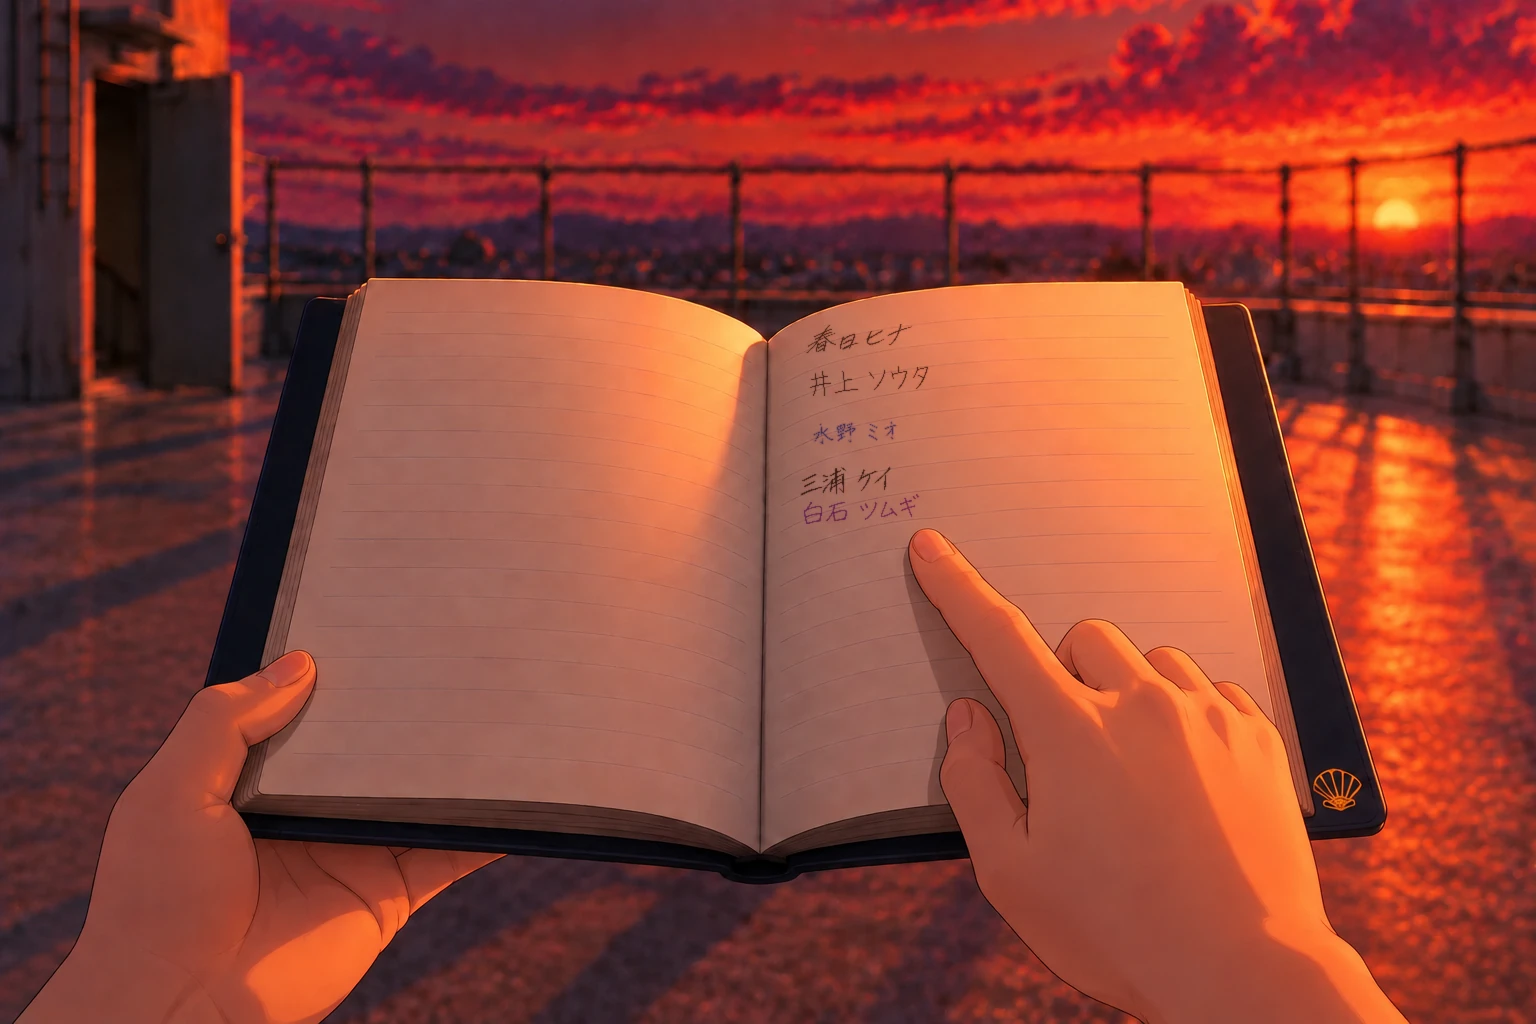
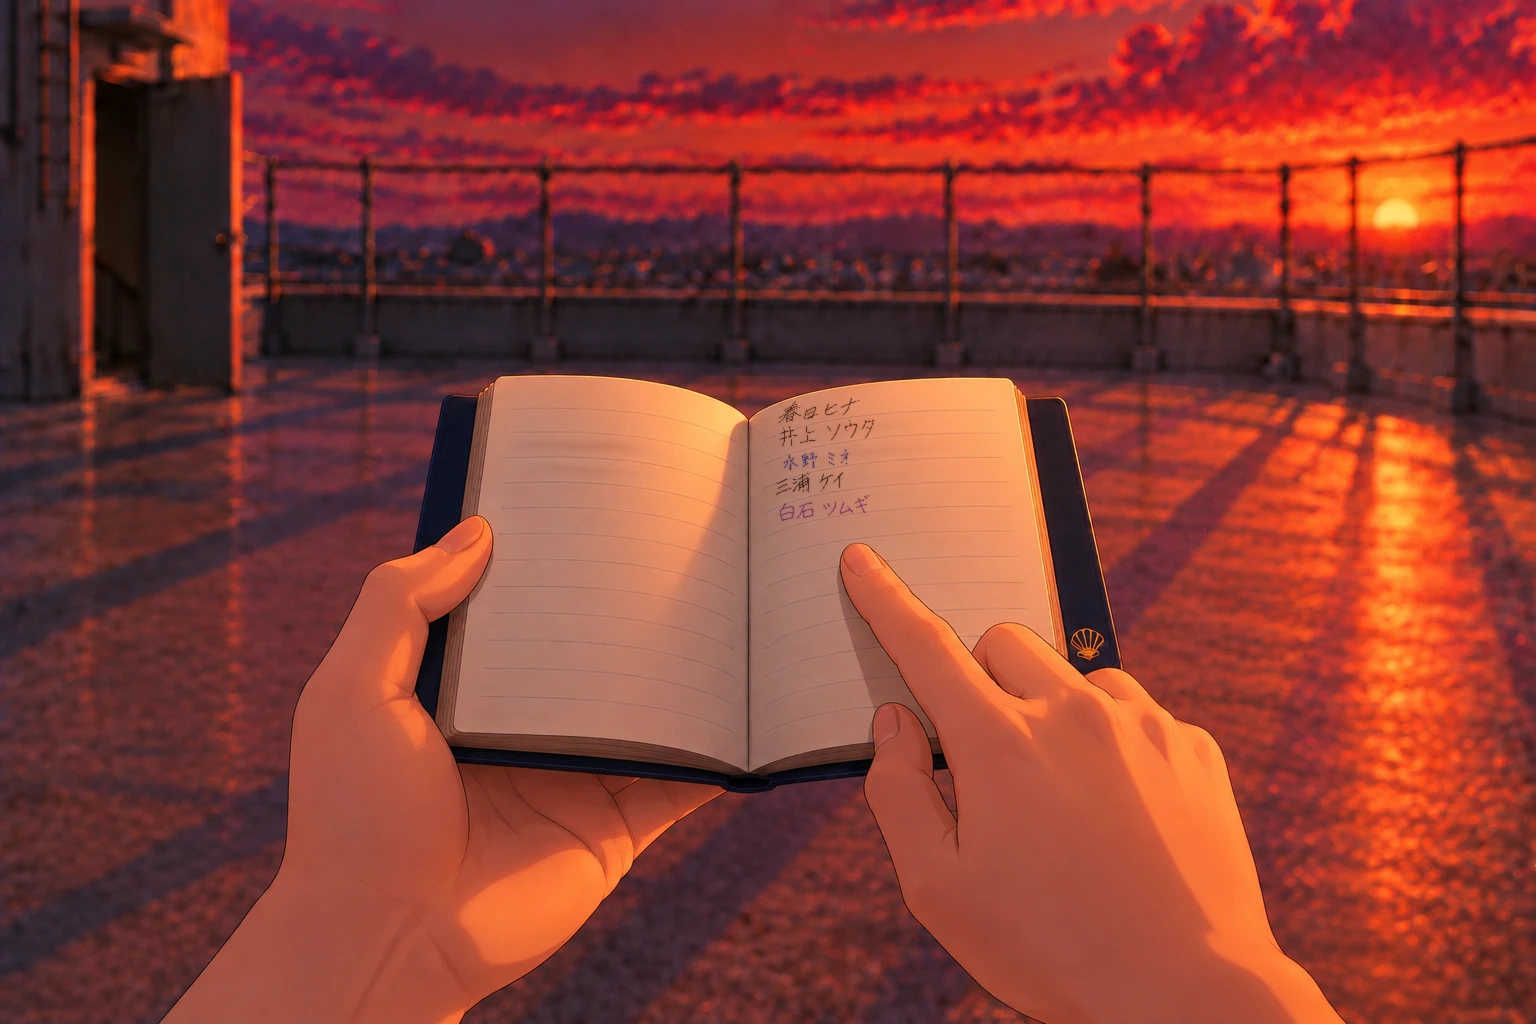
屋上：なぞる場面の手帳を生徒手帳の大きさに描き直し、名前を大きく

diff --git a/index.html b/index.html
@@ -70,9 +70,9 @@
   .cutin.show { opacity: 1; transform: none; }
   .cutin img { position: absolute; inset: 0; width: 100%; height: 100%; object-fit: cover; max-width: none; }
   .cutin .clock-hands { position: absolute; inset: 0; width: 100%; height: 100%; }
-  /* 屋上の手帳をなぞる：拾って開いた手帳の絵（protag_notebook_front）で、右ページの名前のところへ寄る（中心 930,440・2倍） */
+  /* 屋上の手帳をなぞる：拾って開いた手帳の絵（protag_notebook_front）で、右ページの名前のところへ寄る（中心 870,470・3倍。生徒手帳は手のひらにのる大きさなので、強めに寄る） */
   .cutin.nbz { pointer-events: auto; }
-  .nbz-in { position: absolute; inset: 0; transform-origin: 60.55% 42.97%; transform: translate(-10.55%, 7.03%) scale(2); transition: transform 1.4s cubic-bezier(.3, .6, .2, 1); }
+  .nbz-in { position: absolute; inset: 0; transform-origin: 56.64% 45.9%; transform: translate(-6.64%, 4.1%) scale(3); transition: transform 1.4s cubic-bezier(.3, .6, .2, 1); }
   .nbz-in.far { transform: none; transition: none; }
   .cutin .nbz-in img { position: absolute; inset: 0; width: 100%; height: 100%; object-fit: cover; }
   .nbz-row { position: absolute; padding: 0; border: 0; background: none; cursor: pointer; -webkit-tap-highlight-color: transparent; }
@@ -1361,7 +1361,7 @@
     $('#scene').classList.add('cut');
   }
   // 屋上の手帳：名前の行に触れてなぞる。done はなぞり終えた子。返り値は子の id か 'blank'（6行目）
-  const NB_ROWS = [['art', 859, 336, 123, 30, -3.8], ['music', 869, 380, 135, 30, -3.8], ['library', 856, 432, 99, 26, -3.8], ['gym', 846, 480, 108, 24, -3.8], ['infirmary', 862, 509, 132, 22, -3.8], ['blank', 880, 545, 140, 24, -3.8]];   // [子, 中心x, 中心y, 長さ, 高さ, 罫線の傾き(度)]。座標は protag_notebook_front（手帳を拾って両手で開いた絵）1536×1024 基準。罫線はわずかに右上がり
+  const NB_ROWS = [['art', 819, 408, 99, 24, -5.5], ['music', 827, 432, 111, 24, -5.5], ['library', 817, 458, 85, 24, -5.5], ['gym', 810, 482, 87, 24, -5.5], ['infirmary', 825, 507, 107, 24, -5.5], ['blank', 830, 532, 110, 24, -5.5]];   // [子, 中心x, 中心y, 長さ, 高さ, 罫線の傾き(度)]。座標は protag_notebook_front（手帳を拾って両手で開いた絵）1536×1024 基準。罫線は右上がり（約5.5°）。1人1本の罫線、6本目が白い行
   function traceName(done, zoom) {
     const order = NB_ROWS.map(r => r[0]).filter(k => k !== 'blank' && !done.includes(k));
     if (replay) {   // 早送り：記録した名前を使う（この仕組みより前のセーブには記録がないので、上から順に）
